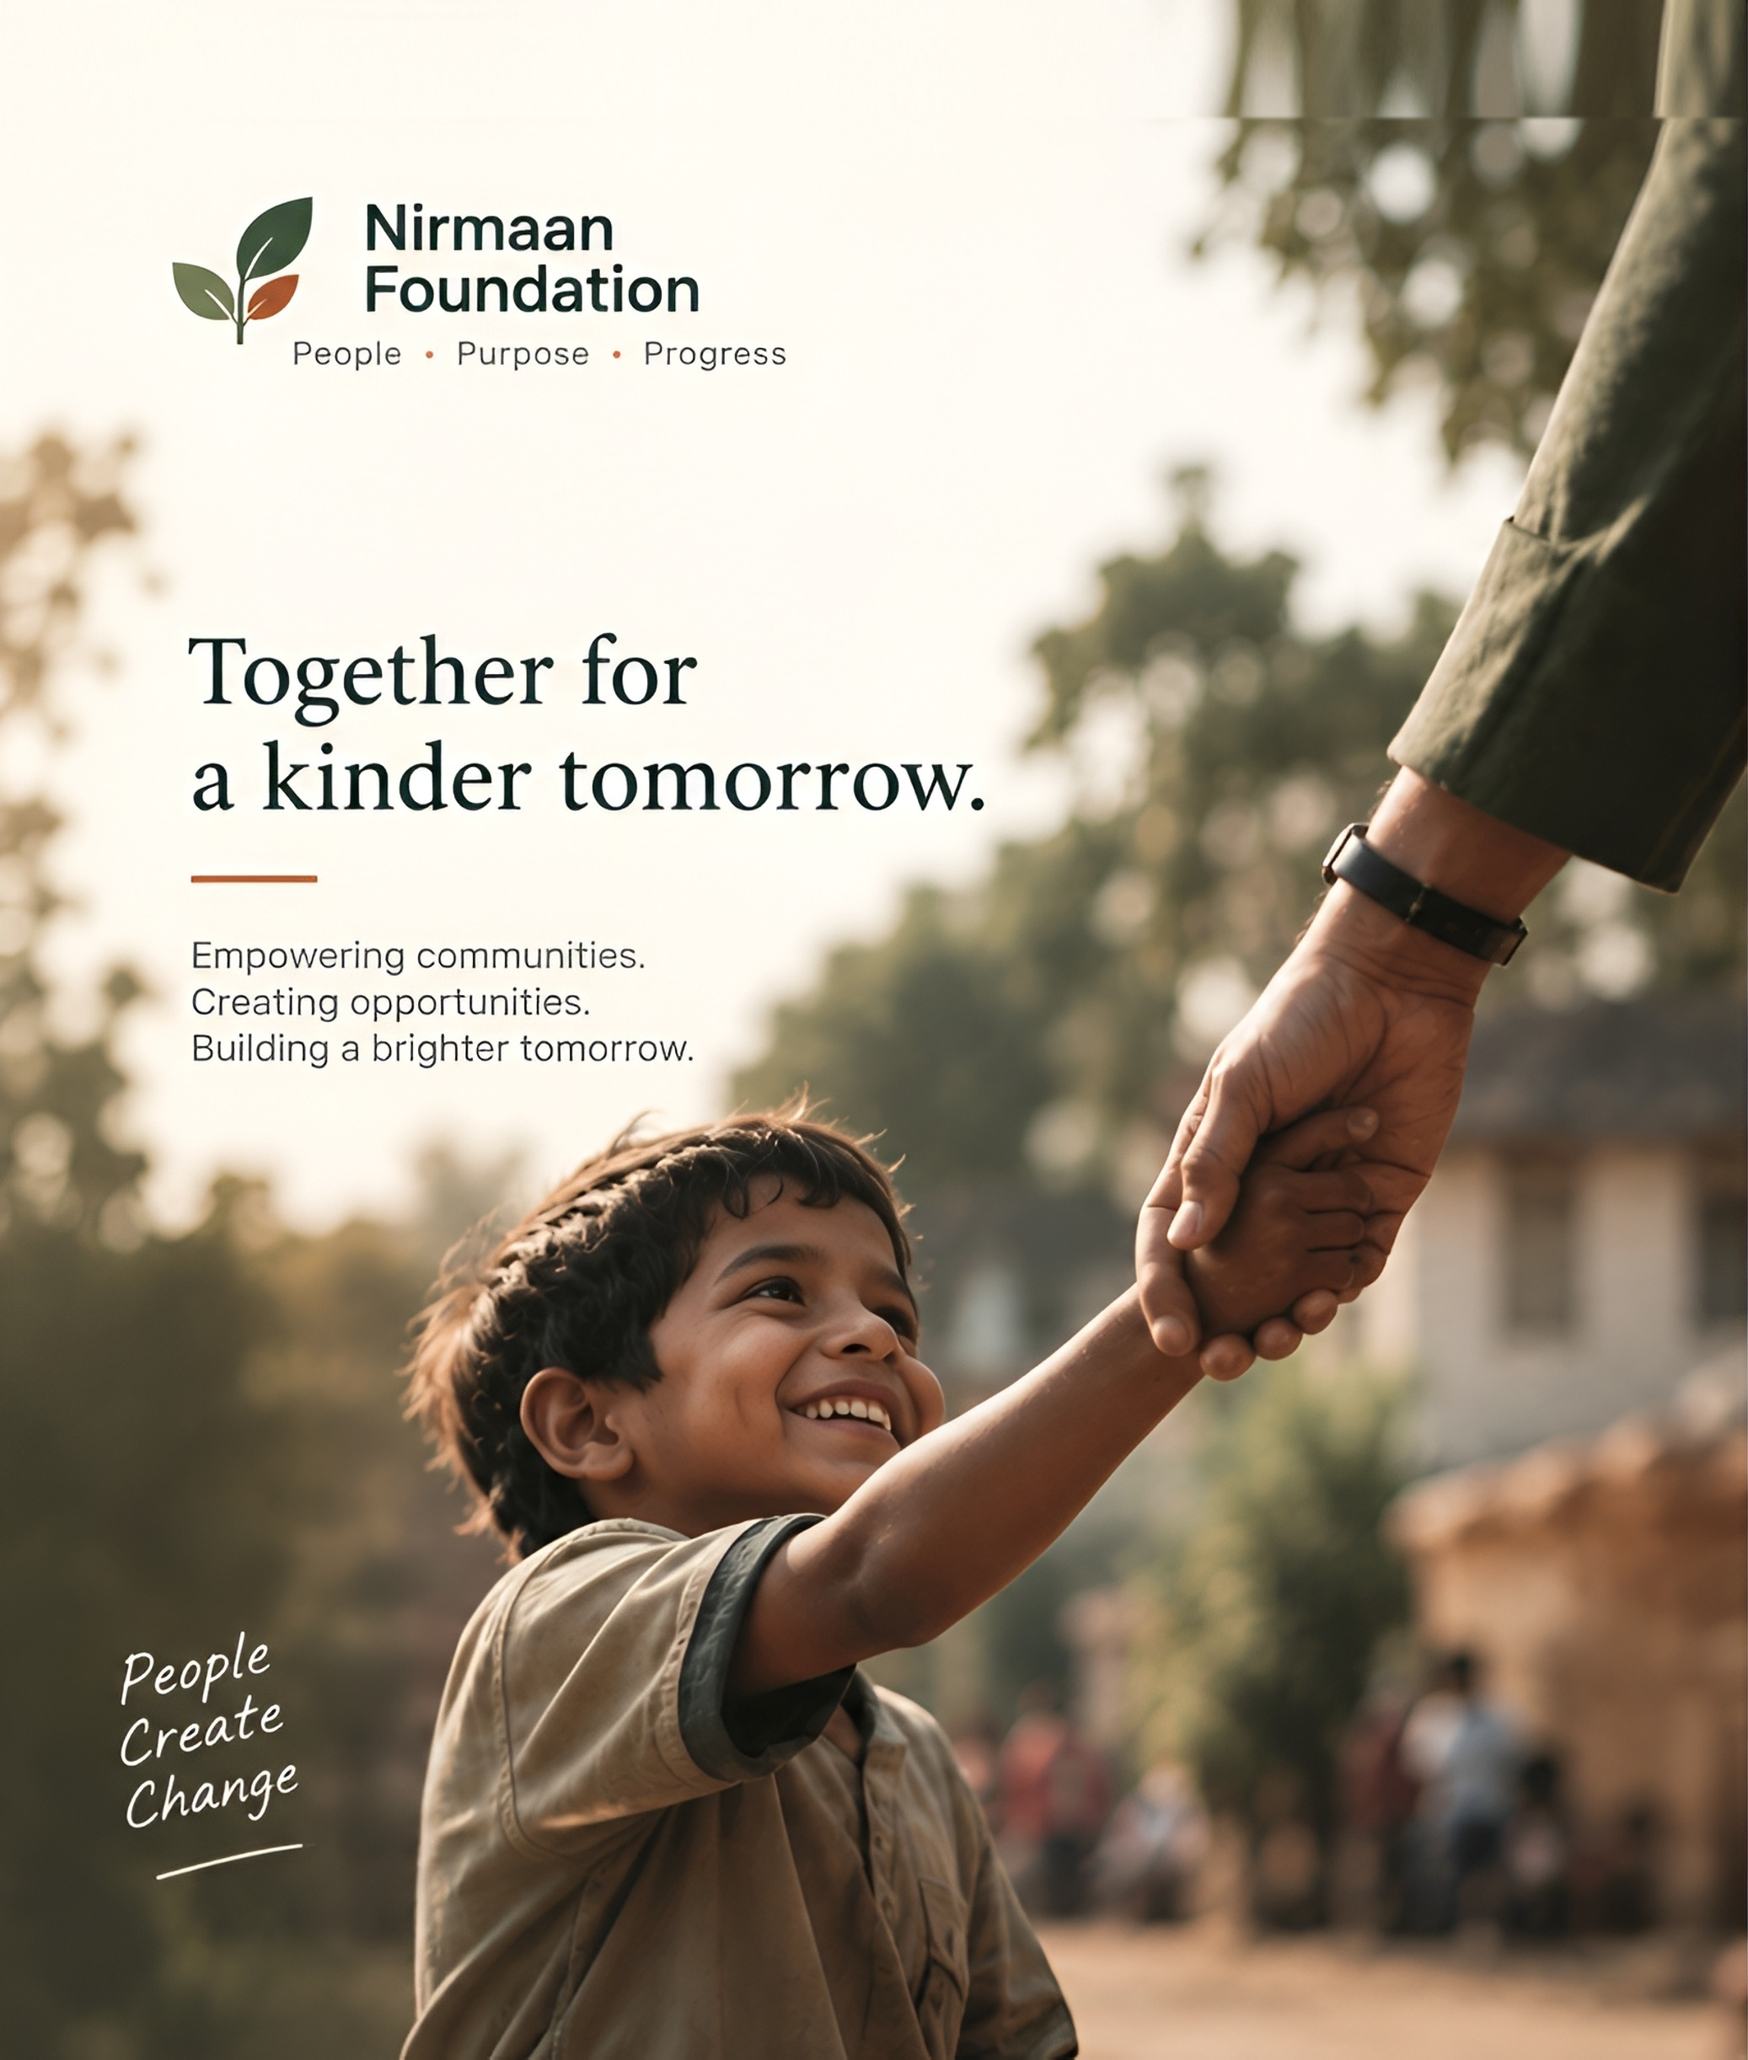
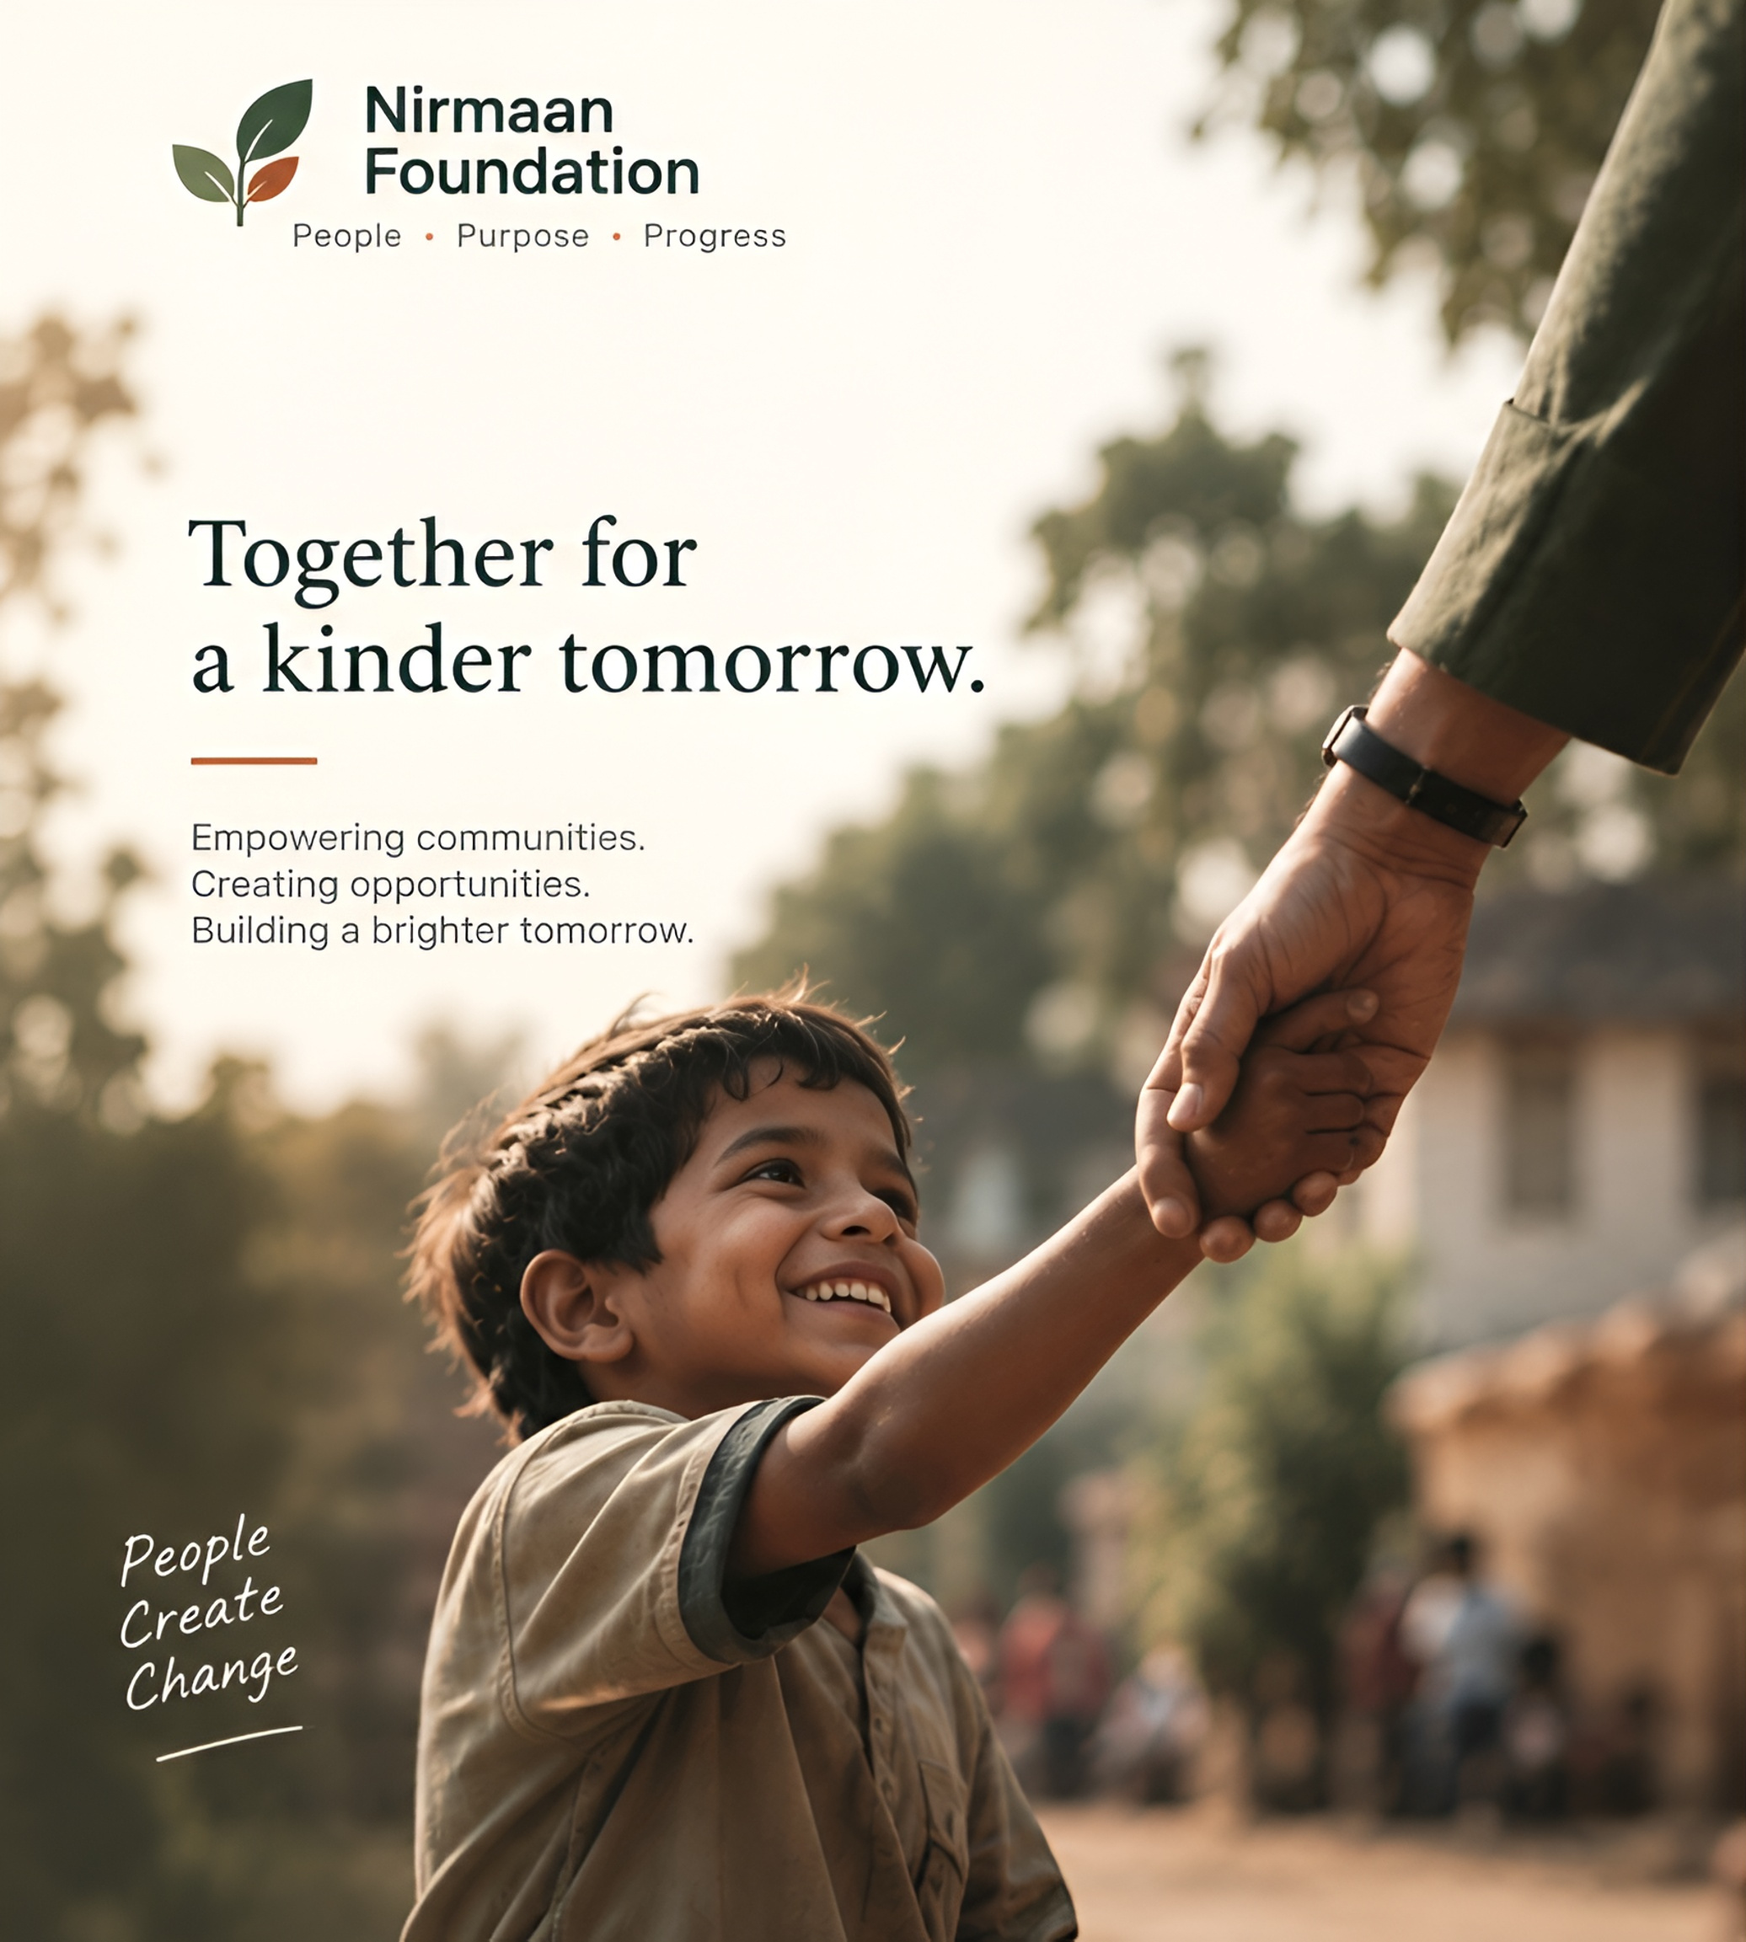
Fix left auth panel image: restore crystal-sharp uncorrupted asset and apply 100% 100% fit to eliminate blurry seam and bottom text clipping

diff --git a/templates/accounts/login.html b/templates/accounts/login.html
@@ -39,7 +39,7 @@
       width: 50vw;
       min-height: 100vh;
       position: relative;
-      background: #FAF8F2 url("{% static 'images/register_fullscreen_left.jpg' %}") center top / cover no-repeat;
+      background: #FAF8F2 url("{% static 'images/register_fullscreen_left.jpg' %}") center center / 100% 100% no-repeat;
       overflow: hidden;
     }
 

diff --git a/templates/accounts/password_reset.html b/templates/accounts/password_reset.html
@@ -37,7 +37,7 @@
       width: 50vw;
       min-height: 100vh;
       position: relative;
-      background: #FAF8F2 url("{% static 'images/register_fullscreen_left.jpg' %}") center top / cover no-repeat;
+      background: #FAF8F2 url("{% static 'images/register_fullscreen_left.jpg' %}") center center / 100% 100% no-repeat;
       overflow: hidden;
     }
 

diff --git a/templates/accounts/password_reset_verify.html b/templates/accounts/password_reset_verify.html
@@ -37,7 +37,7 @@
       width: 50vw;
       min-height: 100vh;
       position: relative;
-      background: #FAF8F2 url("{% static 'images/register_fullscreen_left.jpg' %}") center top / cover no-repeat;
+      background: #FAF8F2 url("{% static 'images/register_fullscreen_left.jpg' %}") center center / 100% 100% no-repeat;
       overflow: hidden;
     }
 

diff --git a/templates/accounts/register.html b/templates/accounts/register.html
@@ -39,7 +39,7 @@
       width: 50vw;
       min-height: 100vh;
       position: relative;
-      background: #FAF8F2 url("{% static 'images/register_fullscreen_left.jpg' %}") center top / cover no-repeat;
+      background: #FAF8F2 url("{% static 'images/register_fullscreen_left.jpg' %}") center center / 100% 100% no-repeat;
       overflow: hidden;
     }
 
